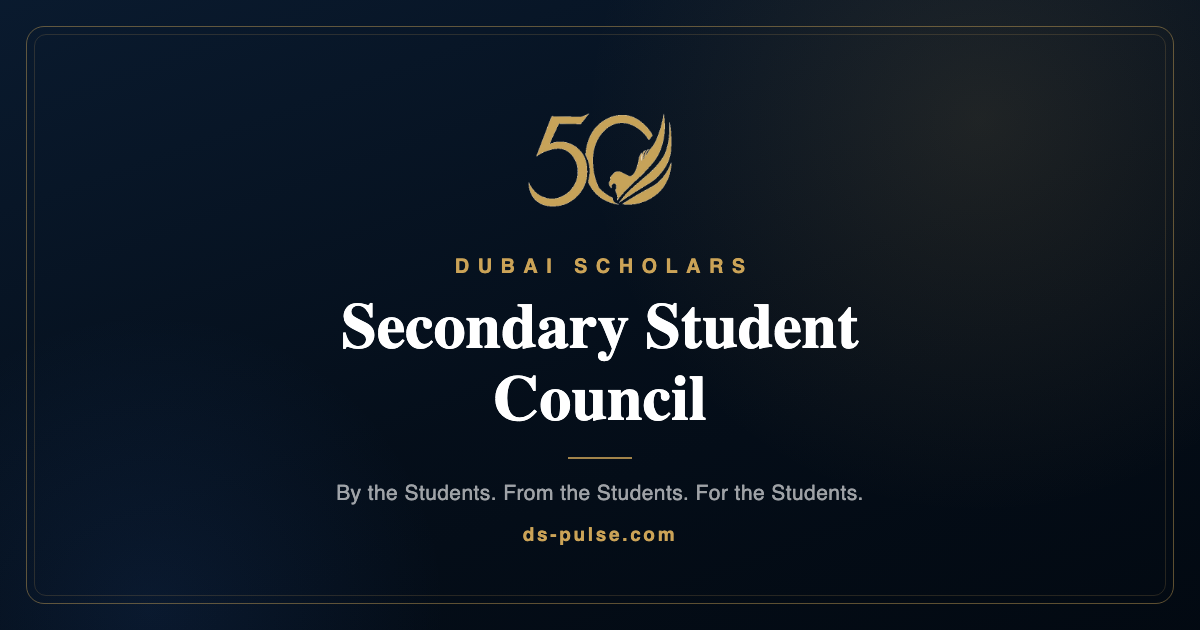
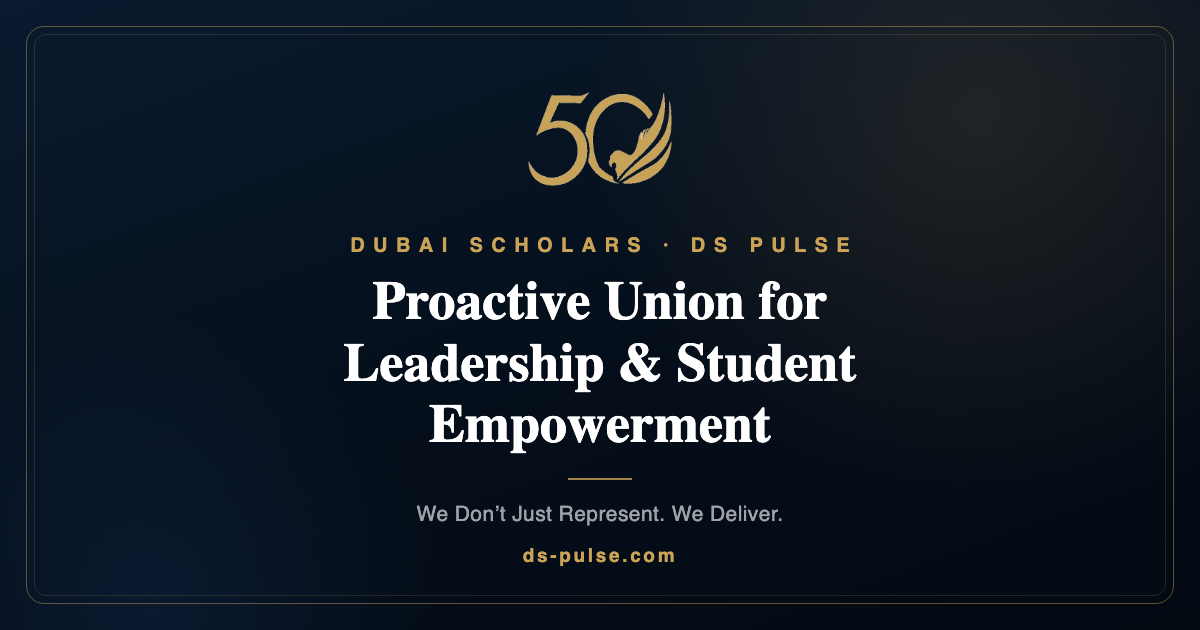
Rebrand motto to PULSE: Proactive Union for Leadership & Student Empowerment
Hero (DB-driven) now leads with the PULSE expansion and DS PULSE as the gold highlight, sub-line 'We Don't Just Represent. We Deliver.' replaces the old motto in the footer, welcome article, meta descriptions, and the regenerated OG share banner.

Generated with Codebuff - Co-Authored-By: Codebuff <noreply@codebuff.com>

Changed region(s): [[0.2775, 0.3619, 0.7092, 0.9048], [0.4317, 0.1508, 0.5858, 0.3317]]

diff --git a/index.html b/index.html
@@ -7,8 +7,8 @@
 
     <!-- Primary SEO -->
     <title>Dubai Scholars Secondary Student Council | DS Pulse</title>
-    <meta name="description" content="The official Secondary Student Council of Dubai Scholars Private School. By the Students. From the Students. For the Students. Meet the council, explore clubs, events and initiatives, and share your voice." />
-    <meta name="keywords" content="Dubai Scholars, Dubai Scholars Private School, Secondary Student Council, DS Student Council, student government Dubai, school clubs, student voice, ds-pulse" />
+    <meta name="description" content="DS Pulse — the official Secondary Student Council of Dubai Scholars Private School. Proactive Union for Leadership & Student Empowerment. We Don't Just Represent. We Deliver. Meet the council, explore clubs, events and initiatives, and share your voice." />
+    <meta name="keywords" content="Dubai Scholars, Dubai Scholars Private School, Secondary Student Council, DS Student Council, DS Pulse, PULSE, Proactive Union for Leadership and Student Empowerment, student government Dubai, school clubs, student voice" />
     <meta name="author" content="Dubai Scholars Secondary Student Council" />
     <meta name="robots" content="index, follow" />
     <meta name="theme-color" content="#0b1622" />
@@ -19,7 +19,7 @@
     <meta property="og:site_name" content="DS Secondary Student Council" />
     <meta property="og:url" content="https://www.ds-pulse.com/" />
     <meta property="og:title" content="Dubai Scholars Secondary Student Council" />
-    <meta property="og:description" content="By the Students. From the Students. For the Students. Meet the council, explore clubs and events, and share your voice." />
+    <meta property="og:description" content="DS Pulse — Proactive Union for Leadership & Student Empowerment. We Don't Just Represent. We Deliver." />
     <meta property="og:image" content="https://www.ds-pulse.com/og-image.png" />
     <meta property="og:image:width" content="1200" />
     <meta property="og:image:height" content="630" />
@@ -29,7 +29,7 @@
     <!-- Twitter/X -->
     <meta name="twitter:card" content="summary_large_image" />
     <meta name="twitter:title" content="Dubai Scholars Secondary Student Council" />
-    <meta name="twitter:description" content="By the Students. From the Students. For the Students. Explore the council, clubs, events and initiatives." />
+    <meta name="twitter:description" content="DS Pulse — Proactive Union for Leadership & Student Empowerment. We Don't Just Represent. We Deliver." />
     <meta name="twitter:image" content="https://www.ds-pulse.com/og-image.png" />
 
     <!-- Structured data for Google -->
@@ -41,7 +41,7 @@
       "alternateName": "DS Student Council",
       "url": "https://www.ds-pulse.com/",
       "logo": "https://www.ds-pulse.com/logo.png",
-      "slogan": "By the Students. From the Students. For the Students.",
+      "slogan": "We Don't Just Represent. We Deliver.",
       "parentOrganization": {
         "@type": "School",
         "name": "Dubai Scholars Private School",

diff --git a/src/components/Footer.jsx b/src/components/Footer.jsx
@@ -19,7 +19,7 @@ export default function Footer() {
                 className="h-full w-full object-contain p-2"
               />
             </div>
-            <p className="mt-4 font-display text-lg font-semibold">&ldquo;By the Students. From the Students. For the Students.&rdquo;</p>
+            <p className="mt-4 font-display text-lg font-semibold">&ldquo;We Don&rsquo;t Just Represent. We Deliver.&rdquo;</p>
             <a
               href={`mailto:${email}`}
               className="mt-4 inline-flex items-center gap-2 text-sm text-white/70 hover:text-gold transition-colors"

diff --git a/src/data/content.js b/src/data/content.js
@@ -97,7 +97,7 @@ export const newsArticles = [
     body: [
       "Hello Everyone! My name is Burhanuddin and I am the IT Coordinator for this year as well as this website's author! I am looking forward to serve you guys especially in this special 50th student council.",
       'I am really excited to see what this year brings. :)',
-      'By the Students. From the Students. For the Students.',
+      'We Don\'t Just Represent. We Deliver.',
     ],
   },
 ]
